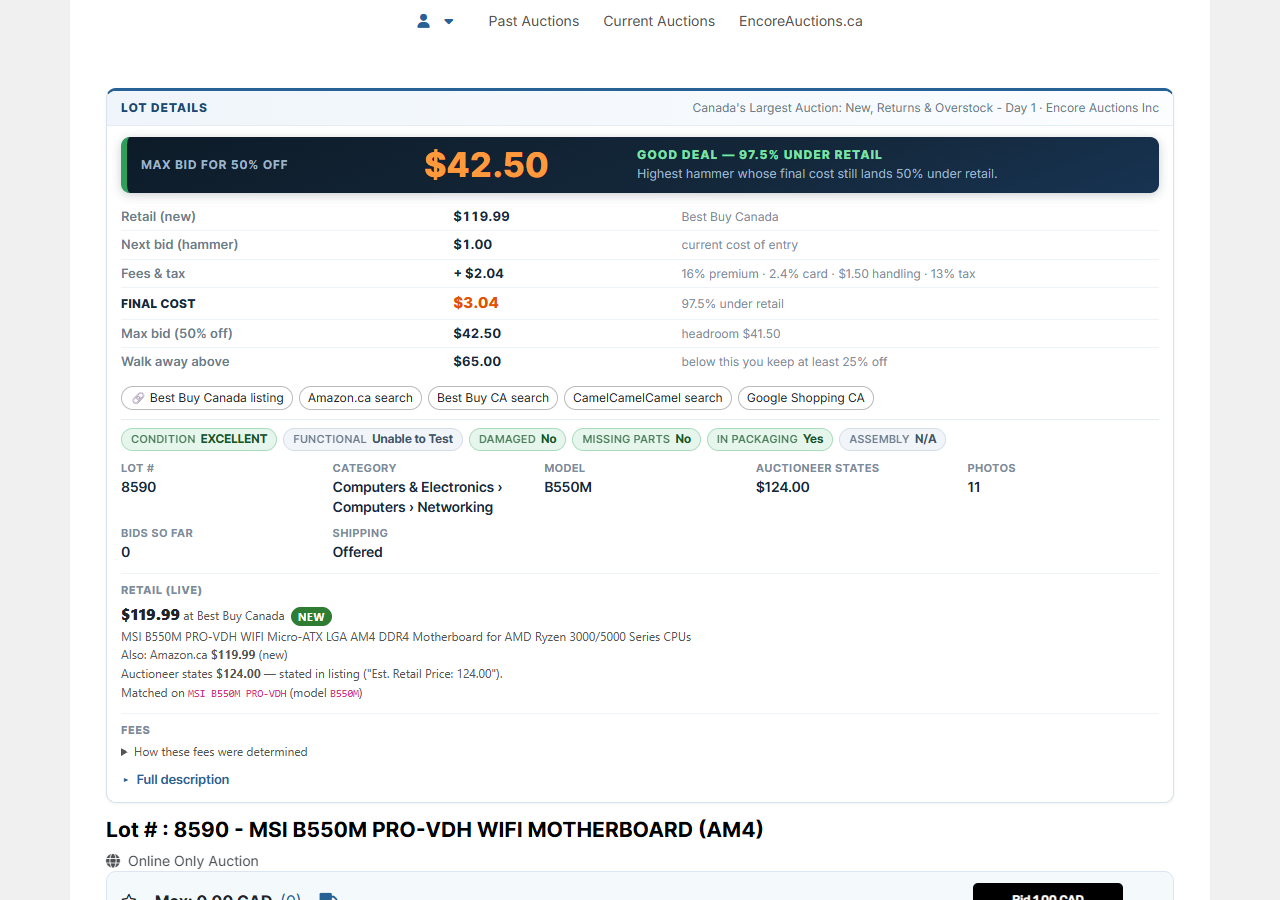
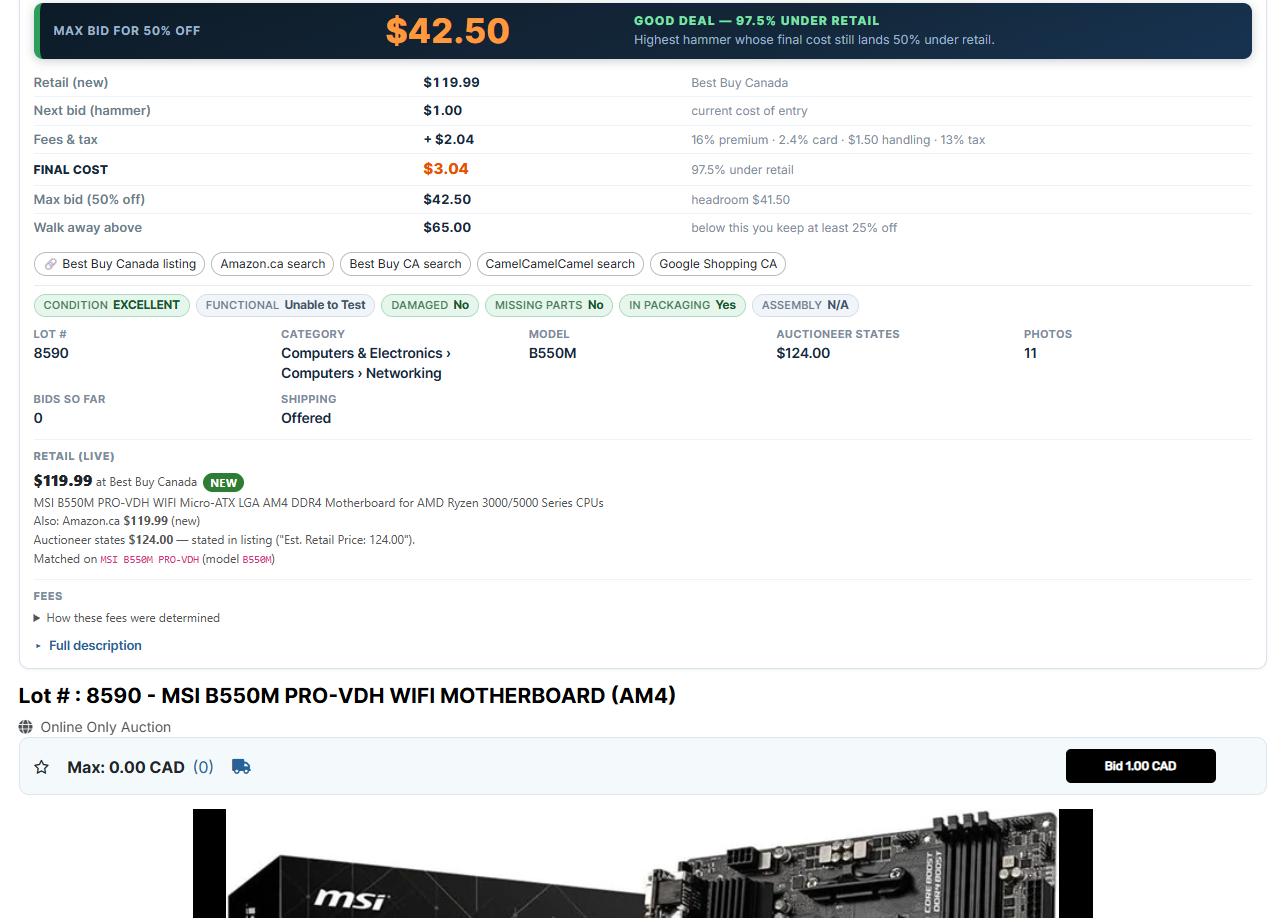
Refresh the remaining screenshots that had drifted, and adopt the orphan
Three re-taken against current main, with any installed-copy stylesheet stripped
from the page first so the shot cannot show an older build:

  screenshot-bluf-top.png       the whole page top: consolidated card, then the
                                title, then the bid strip reading
                                "Max: 0.00 CAD (0)" with the star and truck
  screenshot-bluf-bidstrip.png  re-taken on the hibid.com Sony lot rather than
                                the Encore board, because that lot has 13 bids
                                and a standing max, so the strip actually shows
                                "Max: 31.00 CAD (13)" and "Your Max 60.00 CAD"
                                on one line instead of a pair of zeroes
  screenshot-bluf-hibid-top.png the same layout on hibid.com

That last one had been sitting in docs/ referenced by nothing since it was added.
It is now referenced from the lot-detail doc as the cross-site check, which is
worth showing: the two sites use slightly different markup, and a selector that
only holds on one of them will break.

Four deliberately left alone, checked rather than assumed. bluf-mobile and
detail-notices date from the commits that introduced the layouts they show; the
five commits touching the script since then are all catalog, bids and performance
work that does not touch the detail card, the narrow-screen breakpoint or the
notices block. The loader has been a 20px gradient dot at top/right 25px since it
[…]

Changed region(s): [[0.0, 0.0, 1.0, 1.0], [0.7812, 0.3422, 0.8438, 0.3733], [0.75, 0.4978, 0.7812, 0.5289]]

diff --git a/docs/lot-detail.md b/docs/lot-detail.md
@@ -241,8 +241,13 @@ and in that case the table is the only place the ceiling appears, so it stays. T
 table also remains in full on the fallback path that uses HiBid's own table.
 
 For comparison, the same lot before this consolidation:
-[docs/screenshot-bluf-before.png](screenshot-bluf-before.png), and the page
-as a whole after: [docs/screenshot-bluf-top.png](screenshot-bluf-top.png).
+[screenshot-bluf-before.png](screenshot-bluf-before.png), and the page as a whole
+after: [screenshot-bluf-top.png](screenshot-bluf-top.png).
+
+The same layout on `hibid.com` rather than an auctioneer subdomain, which uses
+slightly different markup: [screenshot-bluf-hibid-top.png](screenshot-bluf-hibid-top.png).
+Both sites are checked on every change, because a selector that only holds on one
+of them is a selector that will break.
 
 ### Narrow screens
 
